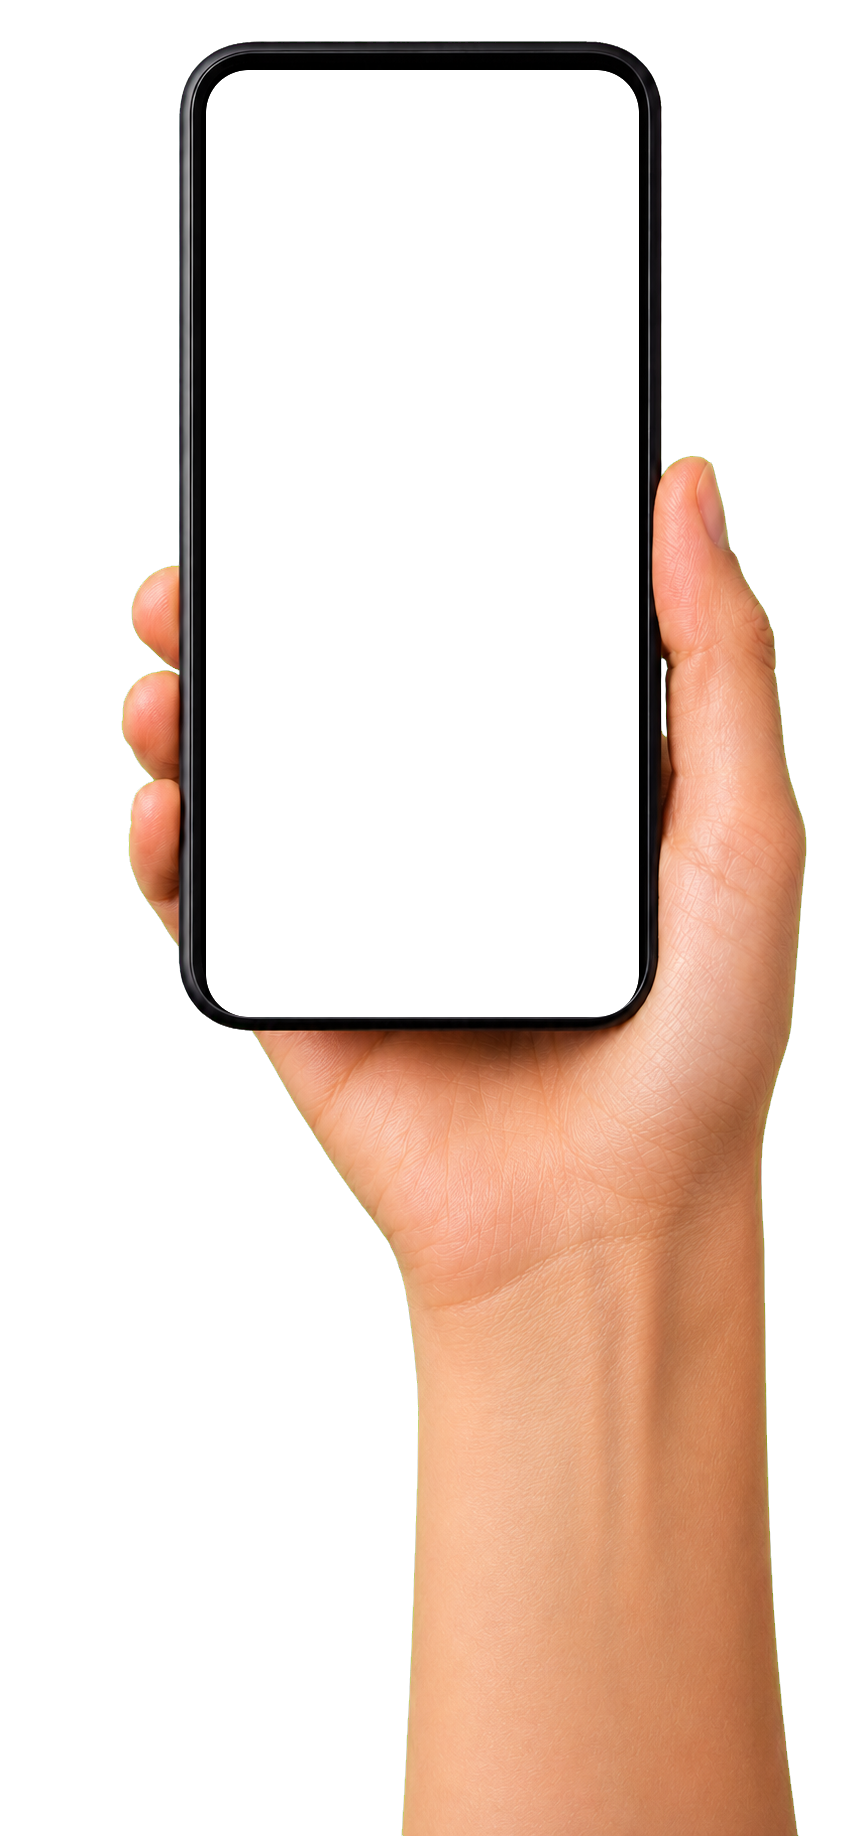
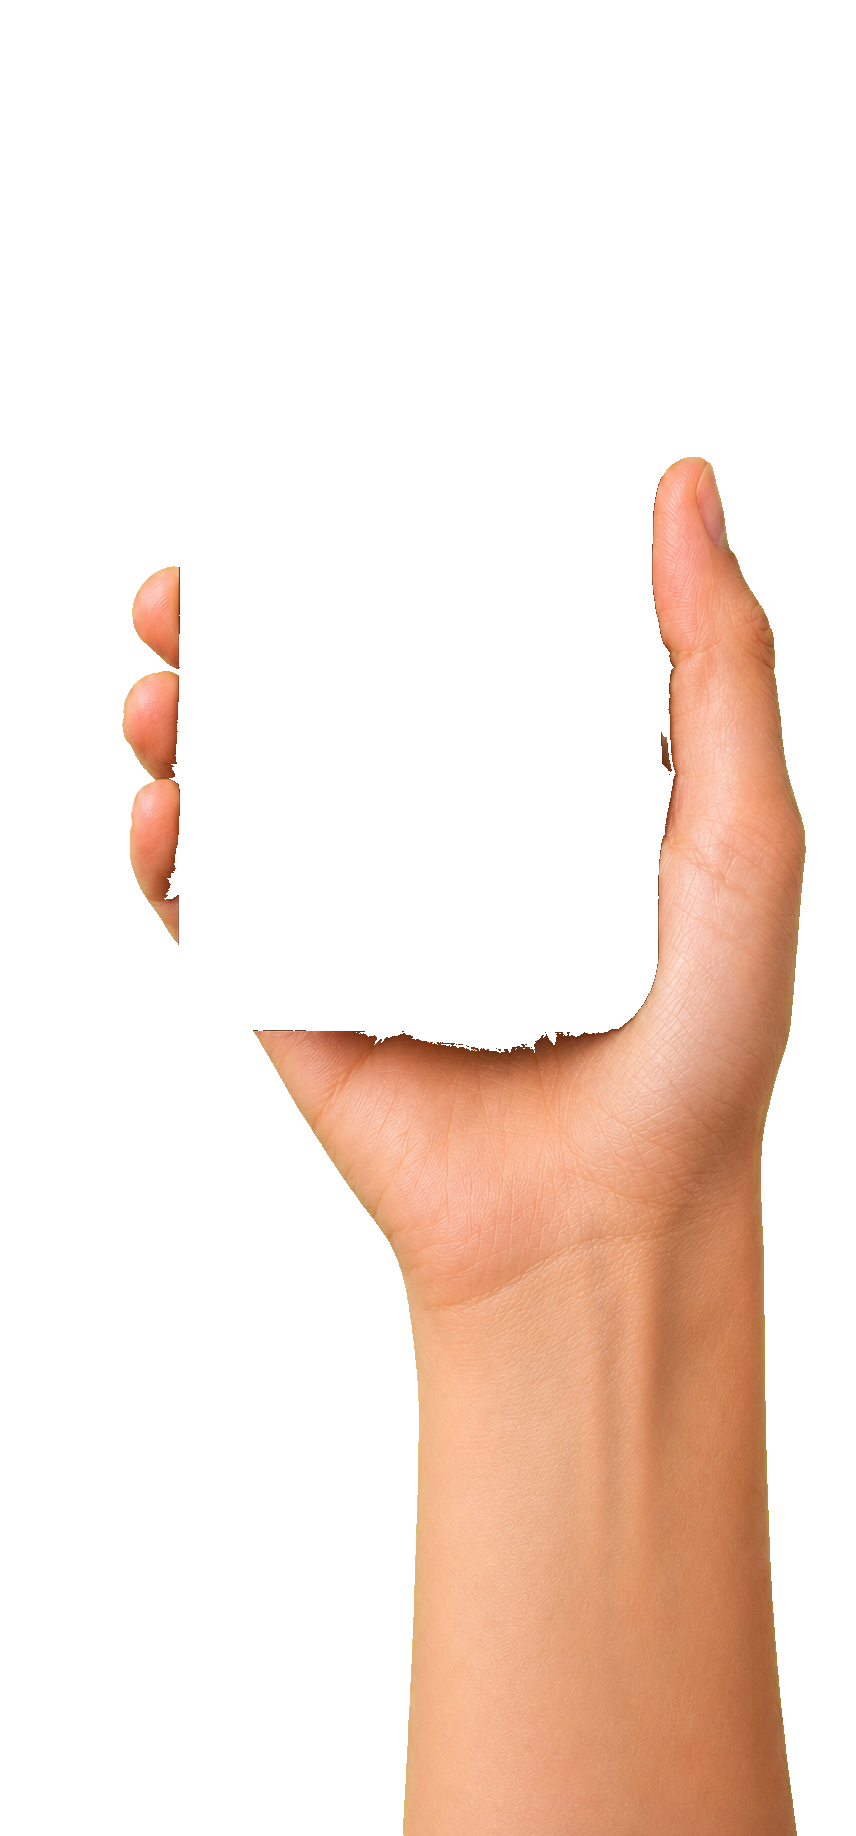
Add files via upload
Launch Wilkerson Digital website 10

Changed region(s): [[0.1822, 0.0, 0.7897, 0.5899]]

diff --git a/styles.css b/styles.css
@@ -405,34 +405,36 @@ a:hover .arrow.down { transform: rotate(90deg) translateX(4px); }
   animation: heldPhoneIn 1s cubic-bezier(.16,.8,.2,1) both 80ms;
 }
 
-.held-screen,
-.held-frame,
-.held-island { position: absolute; display: block; }
-
-.held-screen {
+.held-phone-shell {
+  position: absolute;
   z-index: 1;
-  top: 3.72%;
-  left: 24.25%;
-  width: 50.25%;
-  height: 50.9%;
-  object-fit: cover;
-  object-position: center top;
-  border-radius: 7.8% / 3.8%;
-  clip-path: inset(0.15% 0.2% 0.75% 0.2% round 7.8% 7.8% 7.15% 7.15%);
-  animation: screenSwap 420ms cubic-bezier(.2,.8,.2,1) both;
+  top: 2.35%;
+  left: 21.1%;
+  width: 56.05%;
+  height: 53.7%;
+  padding: 7px;
+  border-radius: clamp(30px, 3.2vw, 48px);
 }
 
-
-.held-island {
-  z-index: 2;
-  top: 5.15%;
+.held-phone-shell .phone-island {
+  top: 12px;
   left: 50%;
-  width: 18.7%;
-  height: 1.55%;
-  border-radius: 999px;
-  background: #020202;
-  transform: translateX(-50%);
-  box-shadow: 0 0 0 1px rgba(0,0,0,.18);
+  width: 31%;
+  height: 23px;
+}
+
+.held-screen,
+.held-frame { position: absolute; display: block; }
+
+.held-phone-shell .held-screen {
+  position: relative;
+  z-index: 1;
+  width: 100%;
+  height: 100%;
+  object-fit: cover;
+  object-position: center top;
+  border-radius: clamp(24px, 2.7vw, 41px);
+  animation: screenSwap 420ms cubic-bezier(.2,.8,.2,1) both;
 }
 
 .held-frame {
@@ -441,7 +443,6 @@ a:hover .arrow.down { transform: rotate(90deg) translateX(4px); }
   width: 100%;
   height: 100%;
   object-fit: contain;
-  filter: saturate(0.72) contrast(1.03);
 }
 
 .hero-theme-switcher {

diff --git a/index.html b/index.html
@@ -53,8 +53,10 @@
             <div class="phone fan-phone fan-left" aria-hidden="true"><span class="phone-island"></span><img data-rear-left src="assets/screens/home-cream.webp" alt=""></div>
             <div class="phone fan-phone fan-right" aria-hidden="true"><span class="phone-island"></span><img data-rear-right src="assets/screens/home-neon.webp" alt=""></div>
             <div class="held-phone">
-              <img class="held-screen" data-held-screen src="assets/screens/home-classic.webp" alt="Emergency 18 Classic home screen">
-              <span class="held-island" aria-hidden="true"></span>
+              <div class="phone held-phone-shell" aria-hidden="true">
+                <span class="phone-island"></span>
+                <img class="held-screen" data-held-screen src="assets/screens/home-classic.webp" alt="Emergency 18 Classic home screen">
+              </div>
               <img class="held-frame" src="assets/hero-phone-hand.png" alt="A realistic hand holding the Emergency 18 app">
             </div>
           </div>